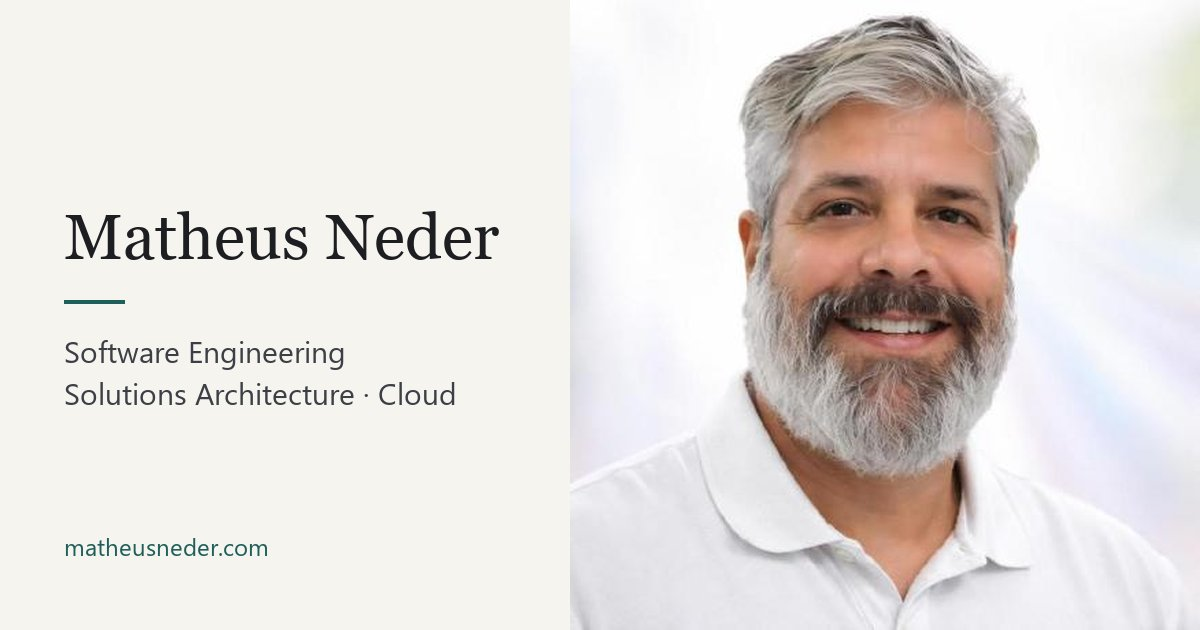
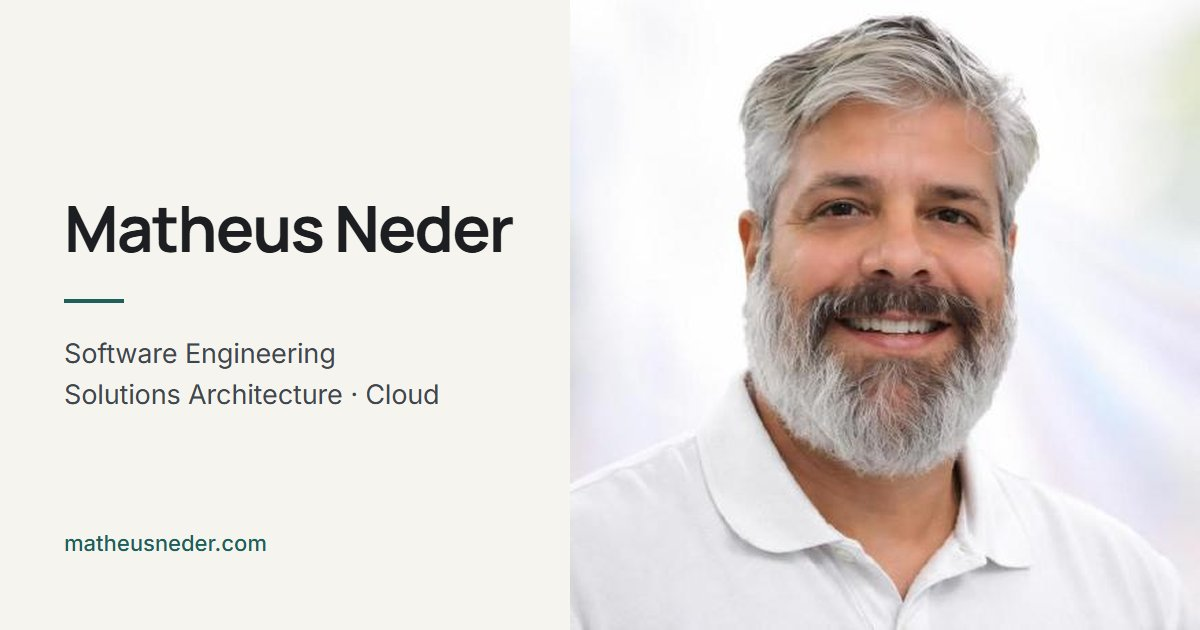
Replace Source Serif 4 with Manrope for name and headings
Self-host Manrope (variable woff2, latin subset, SIL OFL) as the display
face, rename --font-serif to --font-display, set headings to weight 700,
update preloads, README and regenerate og-image with the new font.

diff --git a/assets/css/main.css b/assets/css/main.css
@@ -13,9 +13,9 @@
   font-display: swap;
 }
 @font-face {
-  font-family: "Source Serif 4";
-  src: url("../fonts/source-serif-4-latin-wght.woff2") format("woff2");
-  font-weight: 200 900;
+  font-family: "Manrope";
+  src: url("../fonts/manrope-latin-wght.woff2") format("woff2");
+  font-weight: 200 800;
   font-style: normal;
   font-display: swap;
 }
@@ -37,7 +37,7 @@
   --c-focus:     light-dark(#1f5f5b, #9fd8cf);
 
   --font-sans:  "Inter", system-ui, -apple-system, "Segoe UI", Roboto, sans-serif;
-  --font-serif: "Source Serif 4", Georgia, "Times New Roman", serif;
+  --font-display: "Manrope", "Inter", system-ui, -apple-system, "Segoe UI", Roboto, sans-serif;
 
   --fs-xs:  0.8125rem;
   --fs-sm:  0.9375rem;
@@ -89,10 +89,10 @@ body {
 
 h1, h2, h3, h4 {
   margin: 0;
-  font-family: var(--font-serif);
-  font-weight: 600;
+  font-family: var(--font-display);
+  font-weight: 700;
   line-height: 1.2;
-  letter-spacing: -0.01em;
+  letter-spacing: -0.02em;
   text-wrap: balance;
 }
 h3 { font-size: var(--fs-lg); }
@@ -198,9 +198,9 @@ img { display: block; max-width: 100%; height: auto; }
 .brand {
   flex: none;
   color: var(--c-text);
-  font-family: var(--font-serif);
+  font-family: var(--font-display);
   font-size: 1.125rem;
-  font-weight: 600;
+  font-weight: 700;
   text-decoration: none;
 }
 
@@ -280,7 +280,7 @@ img { display: block; max-width: 100%; height: auto; }
   gap: clamp(2rem, 5vw, 5rem);
   align-items: center;
 }
-.hero h1 { font-size: var(--fs-2xl); font-weight: 600; letter-spacing: -0.02em; }
+.hero h1 { font-size: var(--fs-2xl); font-weight: 700; letter-spacing: -0.03em; }
 .hero .role {
   margin: var(--space-3) 0 var(--space-5);
   color: var(--c-text);
@@ -476,7 +476,7 @@ img { display: block; max-width: 100%; height: auto; }
   gap: var(--space-7) clamp(2rem, 5vw, 4.5rem);
 }
 .edu-grid h3 { margin-bottom: var(--space-5); font-size: var(--fs-lg); }
-.degree h4 { font-family: var(--font-serif); font-size: 1.25rem; font-weight: 600; }
+.degree h4 { font-family: var(--font-display); font-size: 1.25rem; font-weight: 600; }
 .degree p { margin-top: var(--space-1); color: var(--c-muted); }
 @media (max-width: 52rem) { .edu-grid { grid-template-columns: 1fr; } }
 

diff --git a/en/index.html b/en/index.html
@@ -33,7 +33,7 @@
   <link rel="icon" href="../favicon.svg" type="image/svg+xml">
   <link rel="apple-touch-icon" href="../assets/icons/apple-touch-icon.png">
   <link rel="preload" href="../assets/fonts/inter-latin-wght.woff2" as="font" type="font/woff2" crossorigin>
-  <link rel="preload" href="../assets/fonts/source-serif-4-latin-wght.woff2" as="font" type="font/woff2" crossorigin>
+  <link rel="preload" href="../assets/fonts/manrope-latin-wght.woff2" as="font" type="font/woff2" crossorigin>
   <link rel="stylesheet" href="../assets/css/main.css">
   <script>try{var t=localStorage.getItem("theme");if(t==="light"||t==="dark")document.documentElement.dataset.theme=t}catch(e){}</script>
   <script src="../assets/js/main.js" defer></script>

diff --git a/pt-br/index.html b/pt-br/index.html
@@ -33,7 +33,7 @@
   <link rel="icon" href="../favicon.svg" type="image/svg+xml">
   <link rel="apple-touch-icon" href="../assets/icons/apple-touch-icon.png">
   <link rel="preload" href="../assets/fonts/inter-latin-wght.woff2" as="font" type="font/woff2" crossorigin>
-  <link rel="preload" href="../assets/fonts/source-serif-4-latin-wght.woff2" as="font" type="font/woff2" crossorigin>
+  <link rel="preload" href="../assets/fonts/manrope-latin-wght.woff2" as="font" type="font/woff2" crossorigin>
   <link rel="stylesheet" href="../assets/css/main.css">
   <script>try{var t=localStorage.getItem("theme");if(t==="light"||t==="dark")document.documentElement.dataset.theme=t}catch(e){}</script>
   <script src="../assets/js/main.js" defer></script>

diff --git a/README.md b/README.md
@@ -18,7 +18,7 @@ O site é **100% estático**: HTML5 semântico, CSS e JavaScript puro. Não há 
 └── assets/
     ├── css/main.css      Todo o estilo; tokens de design no topo (variáveis CSS)
     ├── js/main.js        Melhorias progressivas (tema, idioma, navegação, vídeo)
-    ├── fonts/            Inter e Source Serif 4 (woff2, subset latin) + licenças OFL
+    ├── fonts/            Inter e Manrope (woff2, subset latin) + licenças OFL
     ├── icons/            icons.svg (sprite) e apple-touch-icon.png
     └── images/           Retrato, imagens da seção de música e imagem Open Graph
 ```
@@ -94,10 +94,10 @@ O currículo fornecido contém dados pessoais (estado civil, idade, telefone) e 
 Todos os tokens ficam no início de `assets/css/main.css`, em `:root`:
 
 - **Cores:** `--c-bg`, `--c-surface`, `--c-text`, `--c-muted`, `--c-line`, `--c-accent`, `--c-accent-bg`, `--c-focus`. Cada uma usa `light-dark(claro, escuro)`, então os dois temas ficam lado a lado. A cor de destaque é um verde-petróleo sóbrio (`#1f5f5b` no claro, `#7fc4ba` no escuro). Ao trocar cores, mantenha contraste mínimo de 4,5:1 para texto (WCAG AA).
-- **Tipografia:** `--font-sans` (Inter, texto) e `--font-serif` (Source Serif 4, nome e títulos); escala em `--fs-*`.
+- **Tipografia:** `--font-sans` (Inter, texto) e `--font-display` (Manrope, nome e títulos); escala em `--fs-*`.
 - **Espaçamento e forma:** `--space-*`, `--radius`, `--measure` (largura de leitura), `--container`.
 
-O favicon (`favicon.svg`) e o `apple-touch-icon.png` usam a mesma cor de destaque; a imagem `og-image.jpg` (1200×630) foi gerada a partir do retrato.
+O favicon (`favicon.svg`) e o `apple-touch-icon.png` usam a mesma cor de destaque; a imagem `og-image.jpg` (1200×630) foi gerada a partir do retrato, com o nome em Manrope e o restante do texto em Inter.
 
 ### Tema claro/escuro
 
@@ -128,7 +128,7 @@ Não há analytics, cookies, fontes de CDN nem hotlinking.
 | `neder-and-gray-driving-all-through-the-night.webp` | Capa exibida no perfil de artista no Spotify | Arte do próprio projeto musical do autor; confirme os direitos de uso com o ilustrador, se aplicável |
 | `video-theres-only-one-thing-on-my-mind.webp` | Miniatura do vídeo do autor no YouTube | Material do próprio projeto musical do autor |
 | Inter | rsms/inter via Fontsource | SIL Open Font License 1.1 (`assets/fonts/OFL-inter.txt`) |
-| Source Serif 4 | Adobe via Fontsource | SIL Open Font License 1.1 (`assets/fonts/OFL-source-serif-4.txt`) |
+| Manrope | Mikhail Sharanda via Fontsource | SIL Open Font License 1.1 (`assets/fonts/OFL-manrope.txt`) |
 | Ícones de marca (GitHub, YouTube, Spotify, LinkedIn) | Simple Icons | CC0 1.0; as marcas pertencem aos respectivos titulares |
 | Ícones de interface (e-mail, sol, lua, seta) | Lucide | ISC |
 | Favicon, `apple-touch-icon.png`, `og-image.jpg` | Criados para este site | Não se aplica |
@@ -147,7 +147,7 @@ Dados pessoais do currículo que não agregam à apresentação profissional (es
 - **Uma página por idioma, sem i18n via JavaScript:** o conteúdo completo está no HTML, o que favorece indexação, compartilhamento e acessibilidade.
 - **Single-page com âncoras:** navegação contínua; no celular, o menu vira uma faixa rolável horizontal (sem menu "hambúrguer", que dependeria de JS).
 - **Sem JavaScript, nada se perde:** conteúdo, navegação, seletor de idioma e vídeo (como link) funcionam; o JS só adiciona alternância de tema, persistência de idioma, destaque da seção atual e carregamento do vídeo sob demanda.
-- **Desempenho:** duas fontes variáveis (~100 KB no total) pré-carregadas, imagens em WebP com dimensões explícitas (sem *layout shift*), `loading="lazy"` fora da primeira dobra, `fetchpriority="high"` no retrato, um CSS e um JS pequenos.
+- **Desempenho:** duas fontes variáveis (~73 KB no total) pré-carregadas, imagens em WebP com dimensões explícitas (sem *layout shift*), `loading="lazy"` fora da primeira dobra, `fetchpriority="high"` no retrato, um CSS e um JS pequenos.
 - **Acessibilidade (WCAG 2.2 AA como referência):** HTML semântico, link "pular para o conteúdo", foco visível, rótulos em controles e links de ícone, contraste verificado nos dois temas, suporte a `prefers-reduced-motion`.
 - **SEO:** títulos e descrições por idioma, `canonical`, `hreflang` com `x-default`, Open Graph, `robots.txt`, `sitemap.xml` com alternates e JSON-LD (`WebSite`, `ProfilePage`, `Person`).
 - **Sem barras de proficiência:** competências agrupadas por área, com as tecnologias usadas na prática.
